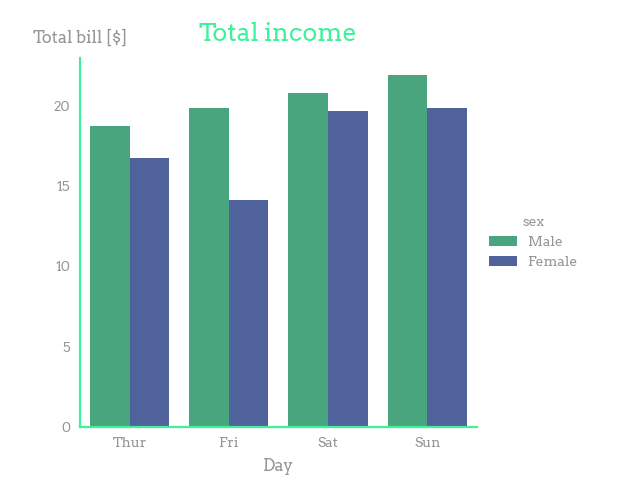
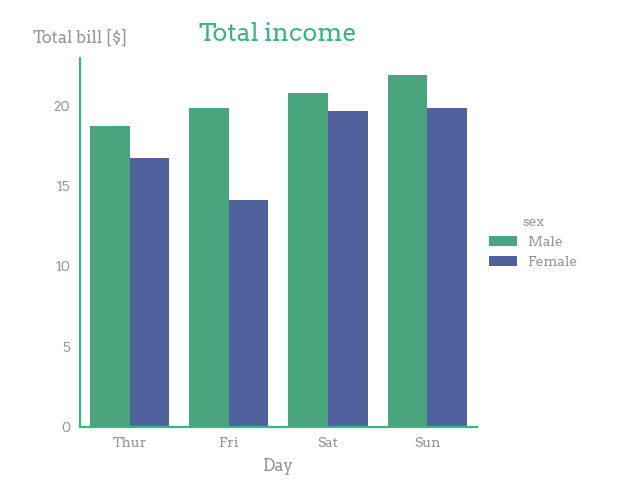
change green tone of title and axis, moved green_bright more in the back of the line

Changed region(s): [[0.125, 0.875, 0.75, 0.9062], [0.3125, 0.0312, 0.5625, 0.0938]]

diff --git a/tests/test_rootsstyle.py b/tests/test_rootsstyle.py
@@ -1,8 +1,9 @@
 import rootsstyle
 import numpy as np
-import matplotlib.pyplot as plt
 import seaborn as sns
+import matplotlib.pyplot as plt
 
+output_dir = "images"
 
 def test_version():
     assert rootsstyle.__version__ == "0.1.2"
@@ -26,7 +27,7 @@ def test_scatterplot():
         rootsstyle.ylabel("Value")
         rootsstyle.legend()
         assert plt.gcf().number == 1
-        plt.savefig("images/scatterplot.png", transparent=True)
+        plt.savefig(f"{output_dir}/scatterplot.png", transparent=True)
         plt.close()
 
 
@@ -45,7 +46,7 @@ def test_barplot_seaborn():
         rootsstyle.ylabel("Total bill [$]")
         rootsstyle.legend()
         assert plt.gcf().number == 1
-        plt.savefig("images/barplot_tips.png", transparent=True)
+        plt.savefig(f"{output_dir}/barplot_tips.png", transparent=True)
         plt.close()
 
 
@@ -68,7 +69,7 @@ def test_barplot_seaborn2():
         rootsstyle.ylabel("Cut")
         plt.ylabel("Count")
         assert plt.gcf().number == 1
-        plt.savefig("images/barplot_sparklystones.png", transparent=True)
+        plt.savefig(f"{output_dir}/barplot_sparklystones.png", transparent=True)
         plt.close()
 
 
@@ -88,7 +89,7 @@ def test_lineplot_seaborn():
         rootsstyle.ylabel("USD")
         rootsstyle.legend_line()
         assert plt.gcf().number == 1
-        plt.savefig("images/lineplot.png", transparent=True)
+        plt.savefig(f"{output_dir}/lineplot.png", transparent=True)
         plt.close()
 
 
@@ -101,5 +102,5 @@ def test_violin_plot():
         rootsstyle.ylabel("USD")
         rootsstyle.legend()
         assert plt.gcf().number == 1
-        plt.savefig("images/violinplot.png", transparent=True)
+        plt.savefig(f"{output_dir}/violinplot.png", transparent=True)
         plt.close()

diff --git a/rootsstyle/__main__.py b/rootsstyle/__main__.py
@@ -10,8 +10,8 @@ import matplotlib.pyplot as plt
 import matplotlib.font_manager as fm
 
 colors = {
-    "green_light+": "#A3F6B4",
-    "green_light": "#3DF29A",
+    "green_light": "#A3F6B4",
+    "green_bright": "#3DF29A",
     "green_dark": "#38B580",
     "blue_light": "#BFC6E2",
     "blue_dark": "#445BA7",
@@ -38,7 +38,7 @@ style = {
     "axes.titlelocation": "center",
     "axes.titlesize": 18,
     "axes.titlepad": 12,
-    "axes.titlecolor": colors["green_light"],
+    "axes.titlecolor": colors["green_dark"],
     # LABELS
     "axes.labelsize": 12,
     "axes.labelpad": 6,
@@ -50,7 +50,7 @@ style = {
     "ytick.color": colors["gray"],
     # AXES
     "axes.linewidth": 1.6,
-    "axes.edgecolor": colors["green_light"],
+    "axes.edgecolor": colors["green_dark"],
     "axes.spines.top": False,
     "axes.spines.right": False,
     # LEGEND
@@ -63,10 +63,10 @@ style = {
             colors["blue_light"],
             colors["green_light"],
             colors["blue_navy"],
-            colors["blue_light"],
-            colors["black"],
             colors["gray"],
             colors["gray_light"],
+            colors["green_bright"],
+            colors["black"],
         ],
     ),
 }
